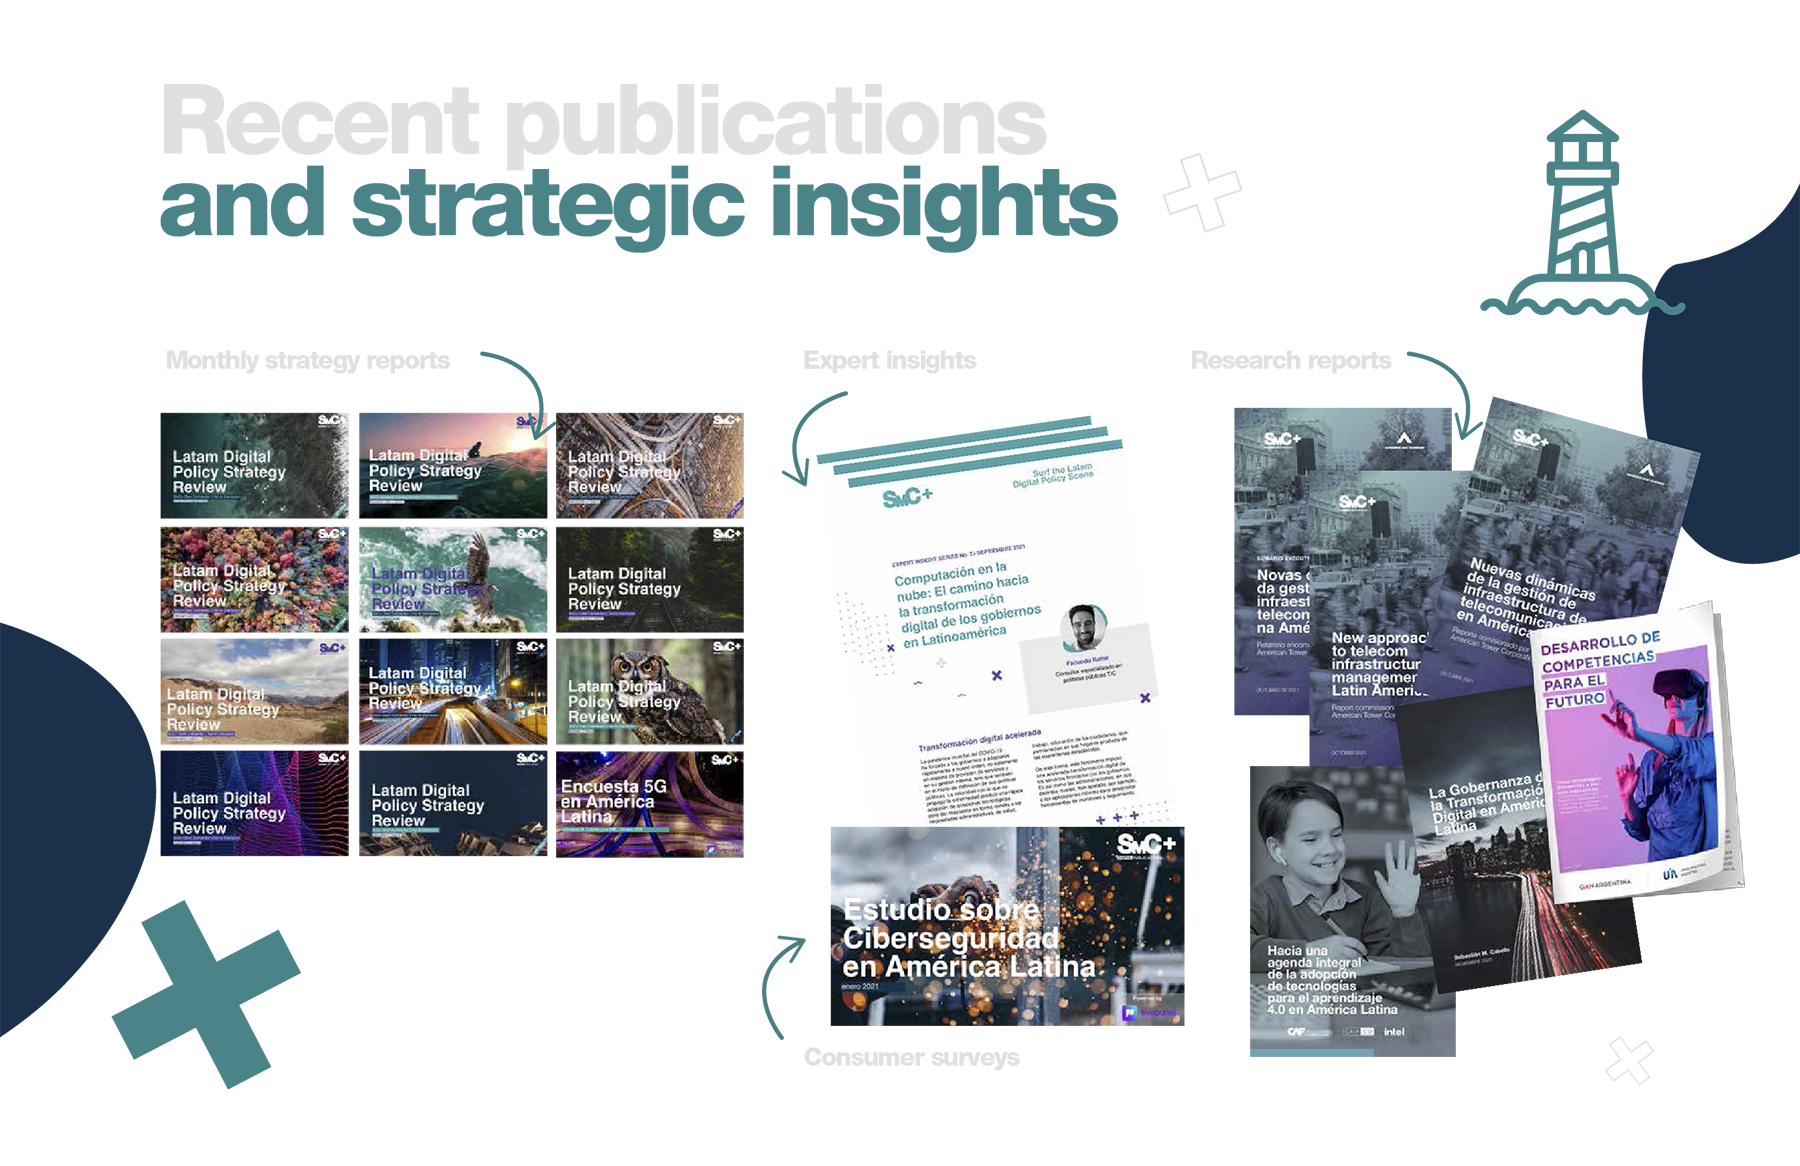
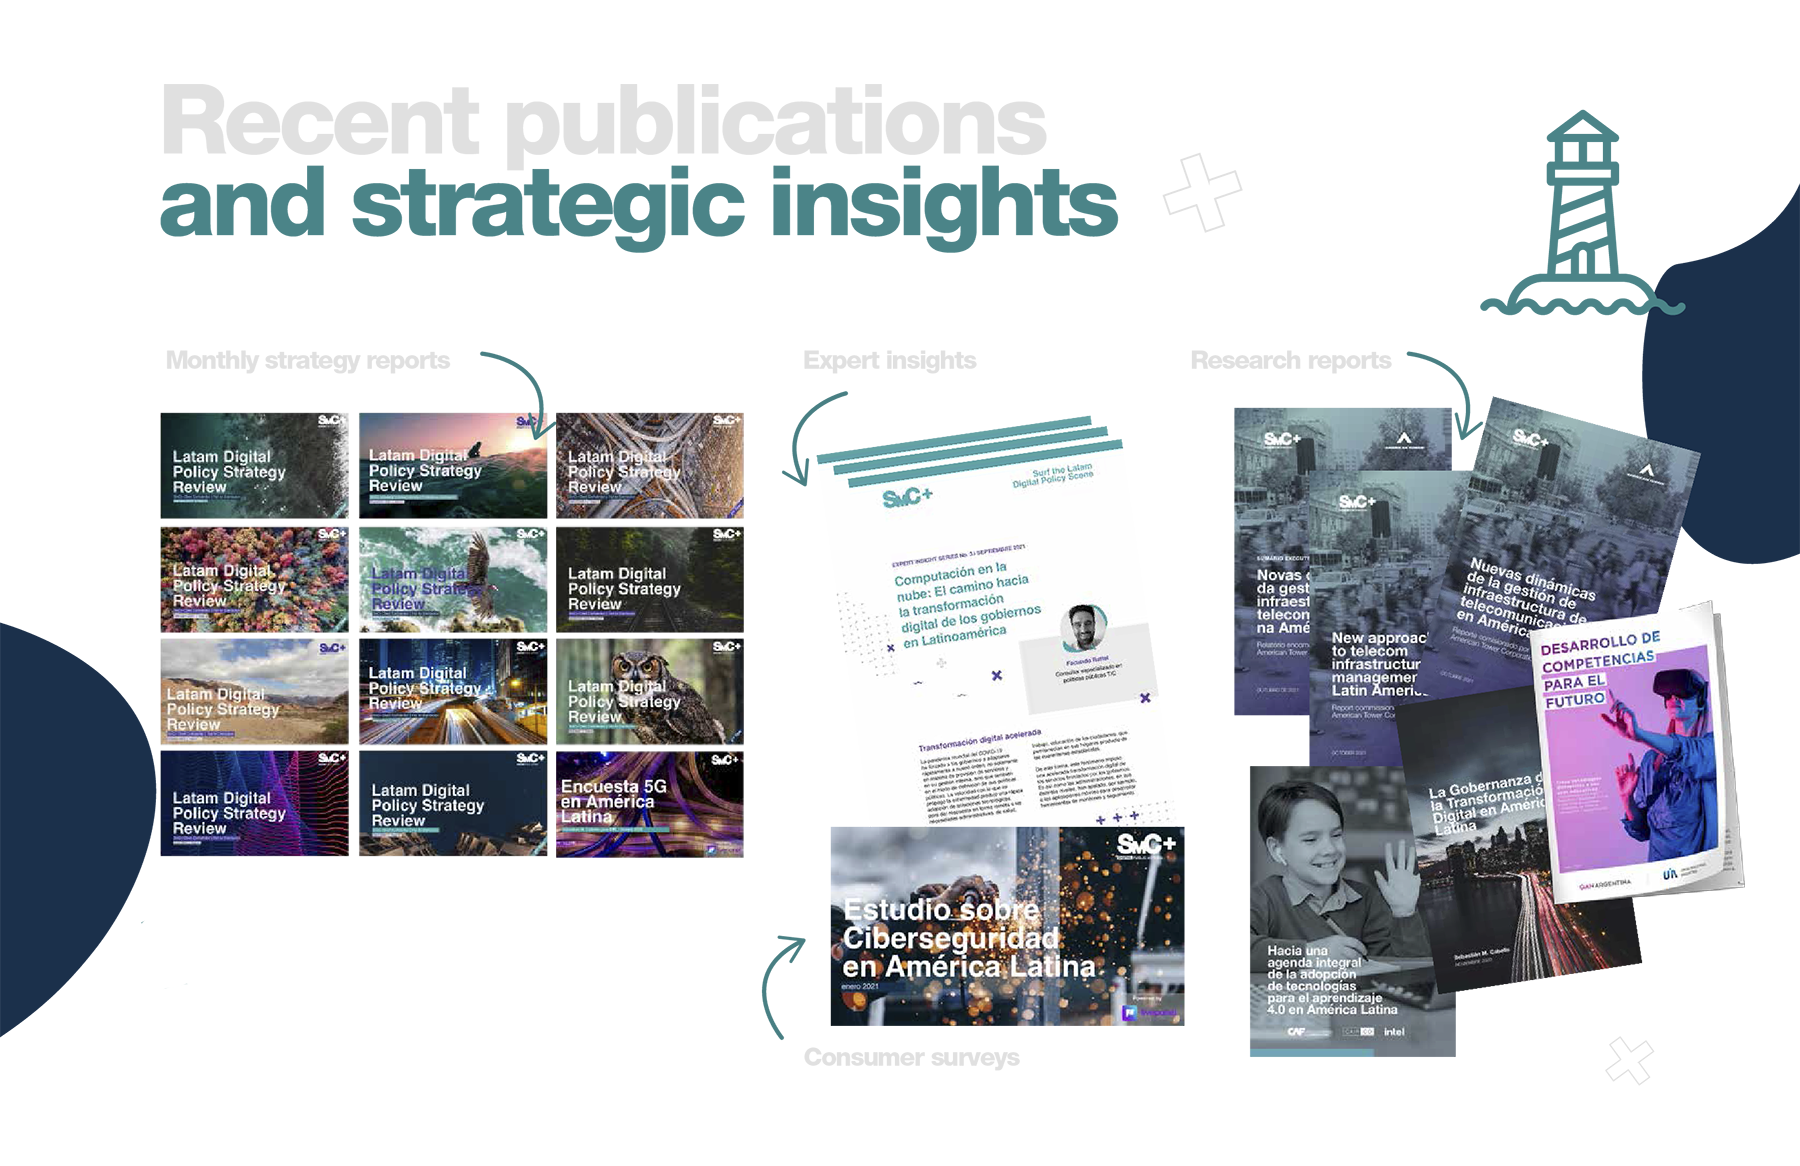
changes

Changed region(s): [[0.0622, 0.7719, 0.1867, 0.9262]]

diff --git a/src/components/servicesSvg/index.js b/src/components/servicesSvg/index.js
@@ -4,28 +4,30 @@ import "./ServicesSvg.scss";
 const ServicesAnimation = () => {
   return (
     <div className="servicesSvg-container">
-      <Lottie animationData={serviceAnimation} />
-      <div className="div-container">
-        <a
-          href="/services/insights-regional-intelligence"
-          target="_blank"
-          rel="noopener noreferrer"
-        ></a>
-        <a
-          href="/services/coaching"
-          target="_blank"
-          rel="noopener noreferrer"
-        ></a>
-        <a
-          href="/services/localized-advocacy-support"
-          target="_blank"
-          rel="noopener noreferrer"
-        ></a>
-        <a
-          href="/services/positioning-strategy"
-          target="_blank"
-          rel="noopener noreferrer"
-        ></a>
+      <div className="servicesSvg-lottie">
+        <Lottie animationData={serviceAnimation} />
+        <div className="div-container">
+          <a
+            href="/services/insights-regional-intelligence"
+            target="_blank"
+            rel="noopener noreferrer"
+          ></a>
+          <a
+            href="/services/coaching"
+            target="_blank"
+            rel="noopener noreferrer"
+          ></a>
+          <a
+            href="/services/localized-advocacy-support"
+            target="_blank"
+            rel="noopener noreferrer"
+          ></a>
+          <a
+            href="/services/positioning-strategy"
+            target="_blank"
+            rel="noopener noreferrer"
+          ></a>
+        </div>
       </div>
     </div>
   );

diff --git a/src/components/AboutCeo/AboutCeo.scss b/src/components/AboutCeo/AboutCeo.scss
@@ -1,9 +1,13 @@
-.about-section{
-    background-image: url("../../assets/wavebackground.jpeg");
-    background-size: cover;
-    background-position: center;
-    background-repeat: no-repeat;
+.about-section {
+    background-color: var(--lightgray-color);
+    @media screen and (min-width: 1024px) {
+        background-image: url("../../assets/wavebackground.jpeg");
+        background-size: cover;
+        background-position: center;
+        background-repeat: no-repeat;
+    }
 }
+
 .app__about-container {
     width: 100%;
     min-height: 50vh;
@@ -62,6 +66,7 @@
             color: var(--gray-color);
             font-family: var(--font-base);
             margin-bottom: 40px;
+
         }
     }
 
@@ -119,7 +124,7 @@
 .app__about-containerCeo {
     width: 100%;
     min-height: 70vh;
-    
+
 
     @media screen and (min-width: 768px) {
         min-height: 50vh;
@@ -174,7 +179,10 @@
             font-family: var(--font-base);
             margin-bottom: 20px;
             text-align: right;
-            background-color: var(--lightgray-color);
+
+            @media screen and (min-width: 1024px) {
+                background-color: var(--lightgray-color);
+            }
         }
     }
 

diff --git a/src/components/SocialMedia/index.js b/src/components/SocialMedia/index.js
@@ -28,11 +28,13 @@ const SocialMedia = () => {
       </div>
       <div className="app__social-media-container">
         <div>
-          <FaTwitter
-            size={60}
-            color="#483c9a"
-            style={{ marginBottom: "20px" }}
-          />
+          {width > 1024 && (
+            <FaTwitter
+              size={60}
+              color="#483c9a"
+              style={{ marginBottom: "20px" }}
+            />
+          )}
           <TwitterTimelineEmbed
             sourceType="SMCplus"
             screenName="SMCplus"
@@ -40,11 +42,13 @@ const SocialMedia = () => {
           />
         </div>
         <div>
-          <FaLinkedinIn
-            size={60}
-            color="#483c9a"
-            style={{ marginBottom: "20px" }}
-          />
+          {width > 1024 && (
+            <FaLinkedinIn
+              size={60}
+              color="#483c9a"
+              style={{ marginBottom: "20px" }}
+            />
+          )}
           <iframe
             src="https://www.linkedin.com/embed/feed/update/urn:li:share:6923367792129765376"
             height="650"

diff --git a/src/components/RecentPublications/index.js b/src/components/RecentPublications/index.js
@@ -1,10 +1,27 @@
 import React from "react";
 import "./RecentPublications.scss";
 import imageRecent from "../../assets/recent-publications.png";
+import cross from "../../assets/cross-green.png";
+import { motion } from "framer-motion";
 const RecentPublications = () => {
   return (
     <div className="recent-publication-container">
-      <img src={imageRecent} alt="recent-publication" loading="lazy" />
+      <img src={imageRecent} alt="recent-publication" loading="lazy" className="image-recent-pub"/>
+      <motion.img
+        src={cross}
+        className="image-recent-pub-cross"
+        alt="cross"
+        initial={{ rotate: 0 }}
+        animate={{ rotate: 360 }}
+        transition={{
+          rotate: {
+            duration: 30,
+            repeat: Infinity,
+            repeatDelay: 0,
+            ease:"linear"
+          },
+        }}
+      />
       <a
         href="/other-reports"
         target="_blank"

diff --git a/src/pages/Home.js b/src/pages/Home.js
@@ -8,6 +8,7 @@ import Header from "../components/Header";
 import HeaderCarousel from "../components/HeaderCarousel";
 import NewReport from "../components/NewReports";
 import RecentPublications from "../components/RecentPublications";
+import Services from "../components/Services";
 import ServicesAnimation from "../components/servicesSvg";
 import SocialMedia from "../components/SocialMedia";
 import Team from "../components/Team";
@@ -26,10 +27,11 @@ const Home = () => {
       <Banner />
       <AboutCeo />
       <Team />
-      <ServicesAnimation />
+      {width > 1024 && <ServicesAnimation />}
+      {width < 1024 && <Services />}
       <NewReport item={newReport} />
       <FeaturedReport item={featuredReport} />
-      <RecentPublications />
+      {width > 1024 && <RecentPublications />}
       <SocialMedia />
       <Clients />
       <Contact />

diff --git a/src/components/RecentPublications/RecentPublications.scss b/src/components/RecentPublications/RecentPublications.scss
@@ -2,8 +2,22 @@
     width: 100%;
     background-color: var(--purple-color);
     position: relative;
-    img {
+
+    .image-recent-pub {
         width: 100%;
+    }
+
+    .image-recent-pub-cross {
+        display: none;
+
+        @media screen and (min-width: 1024px) {
+            display: block;
+            position: absolute;
+            bottom: 3rem;
+            left: 25%;
+            width: 160px;
+            height: 160px;
+        }
     }
 
     .button {
@@ -15,7 +29,7 @@
         color: var(--darkgreen-color);
         font-size: 1rem;
         font-family: var(--font-base);
-        left: 20%;
+        left: 10%;
         top: 85%;
         z-index: 9999;
     }

diff --git a/src/components/servicesSvg/ServicesSvg.scss b/src/components/servicesSvg/ServicesSvg.scss
@@ -1,6 +1,17 @@
 .servicesSvg-container {
-    position: relative;
-
+    width: 100%;
+    background-color: var(--blue-color);
+    display: flex;
+    justify-content: center;
+    align-items: center;
+    @media screen and (min-width: 1024px){
+        min-height: 80vh;
+    }
+    .servicesSvg-lottie{
+        position: relative;
+        width: 82%;
+        margin: auto;
+    }
     .div-container {
         width: 100%;
         height: 60%;
@@ -9,6 +20,7 @@
         left: 0;
         display: grid;
         grid-template-columns: 25% 25% 25% 25%;
+        
         a{
             width: 100%;
         }

diff --git a/src/components/SocialMedia/SocialMedia.scss b/src/components/SocialMedia/SocialMedia.scss
@@ -35,10 +35,17 @@
         align-items: center;
         flex-direction: column;
         gap: 50px;
-        padding: 40px 0 100px;
+        padding: 20px 0 20px;
+        @media screen and (min-width: 1024px){
+            padding: 40px 0 100px;
+        }
         div{
+            width: 100%;
             display: flex;
             flex-direction: column;
+            @media screen and (min-width: 1024px){
+                width: unset;
+            }
         }
 
         @media screen and (min-width: 1024px) {

diff --git a/src/components/AboutCeo/index.js b/src/components/AboutCeo/index.js
@@ -92,6 +92,7 @@ const AboutCeo = () => {
                   duration: 2,
                   repeat: Infinity,
                   repeatDelay: 3,
+                  ease:"linear"
                 },
                 default: { duration: 1.5, ease: "easeInOut" },
               }}

diff --git a/src/components/Clients/Clients.scss b/src/components/Clients/Clients.scss
@@ -26,8 +26,11 @@
         }
     }
     .clients-container-image{
-        width: 80%;
+        width: 100%;
         margin: auto;
+        @media screen and (min-width: 1024px){
+            width: 80%;
+        }
         img{
             width: 100%;
         }

diff --git a/src/components/Services/Services.scss b/src/components/Services/Services.scss
@@ -4,7 +4,7 @@
     display: flex;
     align-items: center;
     justify-content: center;
-    background-color: var(--purple-color);
+    background-color: var(--blue-color);
     padding-bottom: 40px;
 
     @media screen and (min-width: 768px) {

diff --git a/src/components/Navbar/NavbarList.js b/src/components/Navbar/NavbarList.js
@@ -1,2 +1,2 @@
-const NavbarList = ["home", "about us", "services", "reports", "contact"];
+const NavbarList = ["home", "about", "services", "reports", "contact"];
 export default NavbarList;
